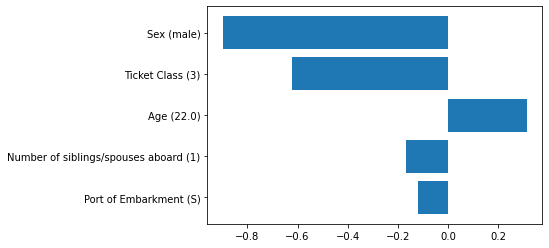
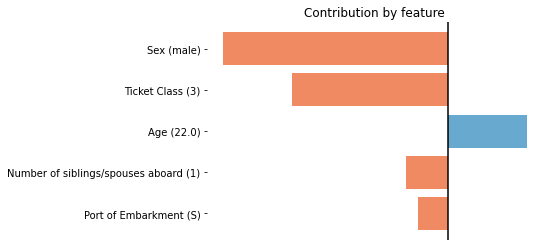
Updated visualization

diff --git a/real/utils/visualize.py b/real/utils/visualize.py
@@ -3,10 +3,10 @@ Includes basic visualization methods, mostly used to testing purposes.
 """
 import numpy as np
 import matplotlib.pyplot as plt
-import pandas as pd
 
 
-def plot_top_contributors(contributions, select_by="absolute", n=5, values=None):
+def plot_top_contributors(contributions, select_by="absolute", n=5, values=None,
+                          flip_colors=False):
     """
     Plot the most contributing features
 
@@ -19,9 +19,13 @@ def plot_top_contributors(contributions, select_by="absolute", n=5, values=None)
             Number of features to plot
         values (Series or DataFrame of shape (1, n_features):
             If given, show the corresponding values alongside the feature names
+        flip_colors (Boolean):
+            If True, make the positive contributions red and negative contributions blue.
+            Useful if the target variable has a negative connotation
 
     Returns:
         pyplot figure
+            Bar plot of top contributors
     """
     features = contributions.columns.to_numpy()
     if values is not None:
@@ -43,5 +47,22 @@ def plot_top_contributors(contributions, select_by="absolute", n=5, values=None)
                          % select_by)
 
     to_plot = order[0:n]
-    plt.barh(features[to_plot][::-1], contributions[to_plot][::-1])
+
+    negative_color = "#ef8a62"
+    positive_color = "#67a9cf"
+    if not flip_colors:
+        colors = \
+            [negative_color if (c < 0) else positive_color for c in contributions[to_plot][::-1]]
+    else:
+        colors = \
+            [positive_color if (c < 0) else negative_color for c in contributions[to_plot][::-1]]
+    plt.barh(features[to_plot][::-1], contributions[to_plot][::-1], color=colors)
+    plt.title("Contribution by feature")
+    plt.tick_params(axis='x', which='both', bottom=False, top=False, labelbottom=False)
+    ax = plt.gca()
+    ax.spines["top"].set_visible(False)
+    ax.spines["bottom"].set_visible(False)
+    ax.spines["right"].set_visible(False)
+    ax.spines["left"].set_visible(False)
+    ax.axvline(x=0, color="black")
     plt.show()
